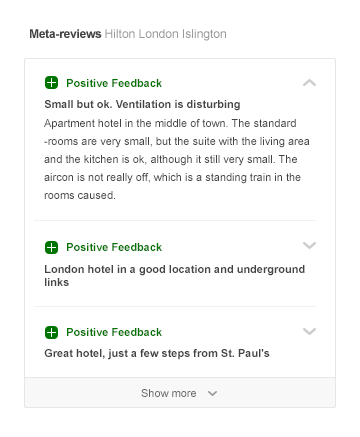
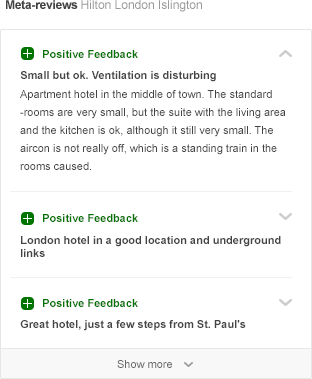
Added missing content

diff --git a/pages/work/projects/ratings-slideout.vue b/pages/work/projects/ratings-slideout.vue
@@ -4,57 +4,133 @@
     <div class="o-text-section">
       <c-baselines></c-baselines>
       <l-wrapper size="sm">
-        <h1 class="o-heading o-heading--gamma">Test</h1>
-        <p class="o-text o-text--paragraph">jbasckjbavnba adsvba vmn aviosdnvk cnsbdi ahjd v lsvn akvuzdbvoa sk doivankj adv aoisnvkasd savioabdva dvaiodv ajdv ousv alvadvb apdv l vuosf vsv a</p>
+        <h1 class="o-heading o-heading--gamma">Rating Overview</h1>
+        <p class="o-text o-text--paragraph">Perhaps most important (at least most viewed) would be the quick rating overview. It needed to give a quick impression of the hotels quality, but also the credibility of its score (how many reviews it has received and where the scores are coming from)</p>
+        <p class="o-text o-text--paragraph">N.B. The color/score relationship was in flux at the time so there may be some visual inconsistencies.</p>
       </l-wrapper>
     </div>
 
     <c-box :border="true" :filled="true" :padded="true">
-      <c-image
-        :imageSrc="'trivago/ratings-slideout/overview-desktop.png'"
-      />
+      <l-wrapper size="lg">
+        <c-image
+          class="u-margin-bottom-sm"
+          :imageSrc="'trivago/ratings-slideout/overview-desktop.png'"
+        />
+      </l-wrapper>
+      <p class="c-box__caption o-text o-text--sm">Desktop - High Score</p>
     </c-box>
 
     <c-box :border="true" :filled="true" :padded="true">
-      <c-image
-        :imageSrc="'trivago/ratings-slideout/overview-limited-desktop.png'"
-      />
+      <l-wrapper size="lg">
+        <c-image
+          class="u-margin-bottom-sm"
+          :imageSrc="'trivago/ratings-slideout/overview-limited-desktop.png'"
+        />
+      </l-wrapper>
+      <p class="c-box__caption o-text o-text--sm">Desktop - Poor Score</p>
+    </c-box>
+
+    <c-box :border="true" :filled="true" :padded="true">
+      <l-wrapper size="lg">
+        <c-image
+          class="u-margin-bottom-sm"
+          :imageSrc="'trivago/ratings-slideout/overview-mobile.png'"
+        />
+      </l-wrapper>
+      <p class="c-box__caption o-text o-text--sm">Mobile - High Score</p>
     </c-box>
 
     <div class="o-text-section">
       <c-baselines></c-baselines>
       <l-wrapper size="sm">
-        <h1 class="o-heading o-heading--gamma">Test</h1>
-        <p class="o-text o-text--paragraph">jbasckjbavnba adsvba vmn aviosdnvk cnsbdi ahjd v lsvn akvuzdbvoa sk doivankj adv aoisnvkasd savioabdva dvaiodv ajdv ousv alvadvb apdv l vuosf vsv a</p>
+        <h1 class="o-heading o-heading--gamma">Review Analysis</h1>
+        <p class="o-text o-text--paragraph">While qualitative reviews (see below) were by far the most influential on users - the review analysis was essential for quick comparison and short listing of the options.</p>
       </l-wrapper>
     </div>
 
     <c-box :border="true" :filled="true" :padded="true">
-      <c-image
-        :imageSrc="'trivago/ratings-slideout/hotel-test-desktop.png'"
-      />
+      <l-wrapper size="lg">
+        <l-grid spacing="lg" vertical="middle">
+          <div class="l-grid__cell u-2/3@desktop">
+            <c-image
+              :imageSrc="'trivago/ratings-slideout/review-analysis-desktop.png'"
+            />
+          </div>
+          <div class="l-grid__cell u-1/3@desktop">
+            <c-image
+              :imageSrc="'trivago/ratings-slideout/analysis-mobile.png'"
+            />
+          </div>
+        </l-grid>
+      </l-wrapper>
     </c-box>
 
-    <c-box :border="true" :filled="true" :padded="true">
-      <c-image
-        :imageSrc="'trivago/ratings-slideout/meta-desktop.png'"
-      />
-    </c-box>
+    <div class="o-text-section">
+      <c-baselines></c-baselines>
+      <l-wrapper size="sm">
+        <h1 class="o-heading o-heading--gamma">Reviews</h1>
+        <p class="o-text o-text--paragraph">Qualitative reviews seem to be one of the most influential factors in promoting a hotel. When in comes to something as subjective as quality we tend to trust people more than algorithms.</p>
+      </l-wrapper>
+    </div>
 
     <c-box :border="true" :filled="true" :padded="true">
-      <l-grid spacing="xs">
-        <div class="l-grid__cell u-1/2@tablet">
-          <c-image
-             :imageSrc="'trivago/ratings-slideout/analysis-mobile.png'"
-          />
-        </div>
-        <div class="l-grid__cell u-1/2@tablet">
-          <c-image
-            :imageSrc="'trivago/ratings-slideout/meta-mobile.png'"
-          />
-        </div>
-      </l-grid>
+      <l-wrapper size="lg">
+        <l-grid spacing="lg" vertical="middle">
+          <div class="l-grid__cell u-2/3@desktop">
+            <c-image
+              :imageSrc="'trivago/ratings-slideout/reviews-desktop.png'"
+            />
+          </div>
+          <div class="l-grid__cell u-1/3@desktop">
+            <c-image
+              :imageSrc="'trivago/ratings-slideout/reviews-mobile.png'"
+            />
+          </div>
+        </l-grid>
+      </l-wrapper>
     </c-box>
+
+    <div class="o-text-section">
+      <c-baselines></c-baselines>
+      <l-wrapper size="sm">
+        <h1 class="o-heading o-heading--gamma">Meta-reviews</h1>
+        <p class="o-text o-text--paragraph">trivago was able to collate multiple qualitative reviews into consise snippets. I've seen this elsewhere across the web since.</p>
+      </l-wrapper>
+    </div>
+
+    <c-box :border="true" :filled="true" :padded="true">
+      <l-wrapper size="lg">
+        <l-grid spacing="lg" vertical="middle">
+          <div class="l-grid__cell u-2/3@desktop">
+            <c-image
+              :imageSrc="'trivago/ratings-slideout/meta-desktop.png'"
+            />
+          </div>
+          <div class="l-grid__cell u-1/3@desktop">
+            <c-image
+              :imageSrc="'trivago/ratings-slideout/meta-mobile.png'"
+            />
+          </div>
+        </l-grid>
+      </l-wrapper>
+    </c-box>
+
+    <div class="o-text-section">
+      <c-baselines></c-baselines>
+      <l-wrapper size="sm">
+        <h1 class="o-heading o-heading--gamma">Hotel Test</h1>
+         <p class="o-text o-text--paragraph">Hotel Test was trivago's own reviewing system, whereby hotel-goers were given significant discounts on their hotel for leaving a through review. I'm not sure that the Hotel Test results were ever featured on mobile... I certainly never worked on a mobile composition.</p>
+      </l-wrapper>
+    </div>
+
+    <c-box :border="true" :filled="true" :padded="true">
+      <l-wrapper size="lg">
+        <c-image
+          :imageSrc="'trivago/ratings-slideout/hotel-test-desktop.png'"
+        />
+      </l-wrapper>
+    </c-box>
+
 
   </section>
 </template>

diff --git a/pages/work/projects/trivago-misc.vue b/pages/work/projects/trivago-misc.vue
@@ -6,8 +6,8 @@
     <div class="o-text-section">
       <c-baselines></c-baselines>
       <l-wrapper size="sm">
-        <h1 class="o-heading o-heading--gamma">The Devil's in the Detail</h1>
-        <p class="o-text o-text--paragraph">Banners were a great lesson in how anal modern web designers need to be. Brand identity, pixel-pushing, image optimization and process automation, all come together to make even the most simple of banner collections.</p>
+        <h1 class="o-heading o-heading--gamma">Logo Collages</h1>
+        <p class="o-text o-text--paragraph">As I pretty much suck at illustration the collage on the left was actually something of an achievement for me. It was an illustration for trivago's team in the Dusseldorf marathon. On the right is an illustration for an onboarding card.</p>
       </l-wrapper>
     </div>
 
@@ -31,12 +31,11 @@
       </l-wrapper>
     </c-box>
 
-    <!-- MOON -->
     <div class="o-text-section">
       <c-baselines></c-baselines>
       <l-wrapper size="sm">
-        <h1 class="o-heading o-heading--gamma">The Devil's in the Detail</h1>
-        <p class="o-text o-text--paragraph">Banners were a great lesson in how anal modern web designers need to be. Brand identity, pixel-pushing, image optimization and process automation, all come together to make even the most simple of banner collections.</p>
+        <h1 class="o-heading o-heading--gamma">Academy Poster</h1>
+        <p class="o-text o-text--paragraph">I really enjoyed this one. It was a quiet week in the office, and one of trivago's frequent 'Academy' events was coming up, so I threw this minimal poster together.</p>
       </l-wrapper>
     </div>
 
@@ -48,12 +47,11 @@
       </l-wrapper>
     </c-box>
 
-    <!-- MOON -->
     <div class="o-text-section">
       <c-baselines></c-baselines>
       <l-wrapper size="sm">
-        <h1 class="o-heading o-heading--gamma">The Devil's in the Detail</h1>
-        <p class="o-text o-text--paragraph">Banners were a great lesson in how anal modern web designers need to be. Brand identity, pixel-pushing, image optimization and process automation, all come together to make even the most simple of banner collections.</p>
+        <h1 class="o-heading o-heading--gamma">Documents Galore</h1>
+        <p class="o-text o-text--paragraph">I was the go-to designer at trivago for internal docs - I asked for that responsibility. Having the occasional 'mundane' task is a great relief from the usual design work, and everything has its own challenges. I composed a lot of documents while I was at trivago.</p>
       </l-wrapper>
     </div>
 

diff --git a/pages/work/projects/product-mockups.vue b/pages/work/projects/product-mockups.vue
@@ -5,7 +5,7 @@
       <c-baselines></c-baselines>
       <l-wrapper size="sm">
         <h1 class="o-heading o-heading--gamma">How I Learned to Stop Worrying and Love the Gif</h1>
-        <p class="o-text o-text--paragraph">I was handed this project to try and complete in my first week at SocialCops and I ended up working on it throughout an entire year. I was tasked with producing quick feature demos for each of SocialCops' 4 products - which would be displayed on the website. I thought, &ldquo;sure, no problem - open up the product, take some screenshots, Bob's your uncle.&rdquo;...</p>
+        <p class="o-text o-text--paragraph">I was handed this project to try and complete in my first week at SocialCops and I ended up working on it throughout an entire year. I was tasked with producing quick feature demos for each of SocialCops' 4 products - which would be displayed on the website. I thought, &ldquo;sure, no problem - open up the product, take some screenshots, Bob's your uncle&rdquo;...</p>
         <p class="o-text o-text--paragraph">How wrong I was. There were a few details that everyone (including myself) had overlooked.</p>
         <ol class="o-text o-text--paragraph">
           <li>Only 1 of the 4 products actually had a finished front-end UI</li>
@@ -14,6 +14,7 @@
           <li>I had never animated more than blinking buttons on web banners</li>
         </ol>
         <p class="o-text o-text--paragraph">Now there was nothing wrong with any of this. Startups and their employees need to wing-it a little, but this was certainly a case of optimistic time planning. I worked on many other things during the year at SocialCops, but I was working on some of these screenshots until just before I left.</p>
+        <p class="o-text o-text--paragraph">The thing I was really proud of was the size of these images. In my research I found a lot of .MP4s and .WEBPs that looked beautiful but were <em>at least</em> 2MB a piece, with plenty of them over 4/5MB! I wasn't having any of that. We were going to have up to 6 of these per page and they'd be autoplaying. By manually crafting these GIFs I was able to get almost all of them below 1MB, with the majority under 500kb - not tiny, but a significant performance gain.</p>
       </l-wrapper>
     </div>
 

diff --git a/pages/work/projects/application-to-sc.vue b/pages/work/projects/application-to-sc.vue
@@ -60,7 +60,7 @@
       <c-baselines></c-baselines>
       <l-wrapper size="sm">
         <h1 class="o-heading o-heading--gamma">World Malaria Day</h1>
-        <p class="o-text o-text--paragraph">Well the Right to Education task seemed to please the powers that be enough, so they set me another task. They wanted to see my graphicky-type-skills (which are to this day admittedly lacking), so they asked to me do something infographicky related to World Malaria Day, again with very little in the way of restrictions or suggestions. So I took a handful of facts, make some accompanying illustrations, and used them in 3 different media:</p>
+        <p class="o-text o-text--paragraph">Well the Right to Education task seemed to please the powers that be enough, so they set me another task. They wanted to see my graphicky-type-skills (which are to this day admittedly lacking), so they asked me to do something infographicky related to World Malaria Day, again with very little in the way of restrictions or suggestions. So I took a handful of facts, make some accompanying illustrations, and used them in 3 different media:</p>
         <ol class="o-text o-text--paragraph">
           <li>An infographic - intended for sharing on social media (see below)</li>
           <li><f-link externalLink="https://thisguyscode.github.io/malaria/" :inline="true">A microsite</f-link> (of course)</li>

diff --git a/pages/work/projects/scss-colors.vue b/pages/work/projects/scss-colors.vue
@@ -113,6 +113,14 @@
 
     </div>
 
+    <div class="o-text-section">
+      <c-baselines></c-baselines>
+
+      <l-wrapper size="sm">
+        <p class="o-text o-text--paragraph">The savvy reader will realise that these classes are largely useless in an actual web project. In their current format they are only really intended for generating the <f-link externalLink="https://thisguyscode.github.io/scss-color-palettes/" :inline="true">color palette demo</f-link>, but it doesn't take much to apply this to an actual style system... it just depends on the particulars</p>
+      </l-wrapper>
+    </div>
+
   </section>
 </template>
 

diff --git a/pages/work/projects/hotel-item-element.vue b/pages/work/projects/hotel-item-element.vue
@@ -29,7 +29,7 @@
       </l-wrapper>
     </div>
 
-    <c-box :border="true" :filled="true" :padded="true">
+    <c-box :border="true" :padded="true" class="desktop-box">
       <l-wrapper size="lg" class="u-text--align-center">
         <l-grid>
           <div class="l-grid__cell u-1/2@tablet">
@@ -50,14 +50,11 @@
 </template>
 
 <script>
-import cDeviceFrame from '~/components/c-device-frame'
-export default {
-  components: {
-    cDeviceFrame
-  }
-}
+export default {}
 </script>
 
-<style>
-
+<style lang="scss" scoped>
+.desktop-box {
+  background-color: #e6e6e6;
+}
 </style>

diff --git a/components/c-box.vue b/components/c-box.vue
@@ -52,6 +52,14 @@ export default {
 }
 
 
+/* Child classes
+======================================================================== */
+.c-box__caption {
+  color: $neutral-30;
+  text-align: center;
+  display: block;
+}
+
 
 /* Style modifiers
 ======================================================================== */
@@ -87,5 +95,4 @@ export default {
     padding-bottom: $unit-xl;
   }
 }
-
 </style>
